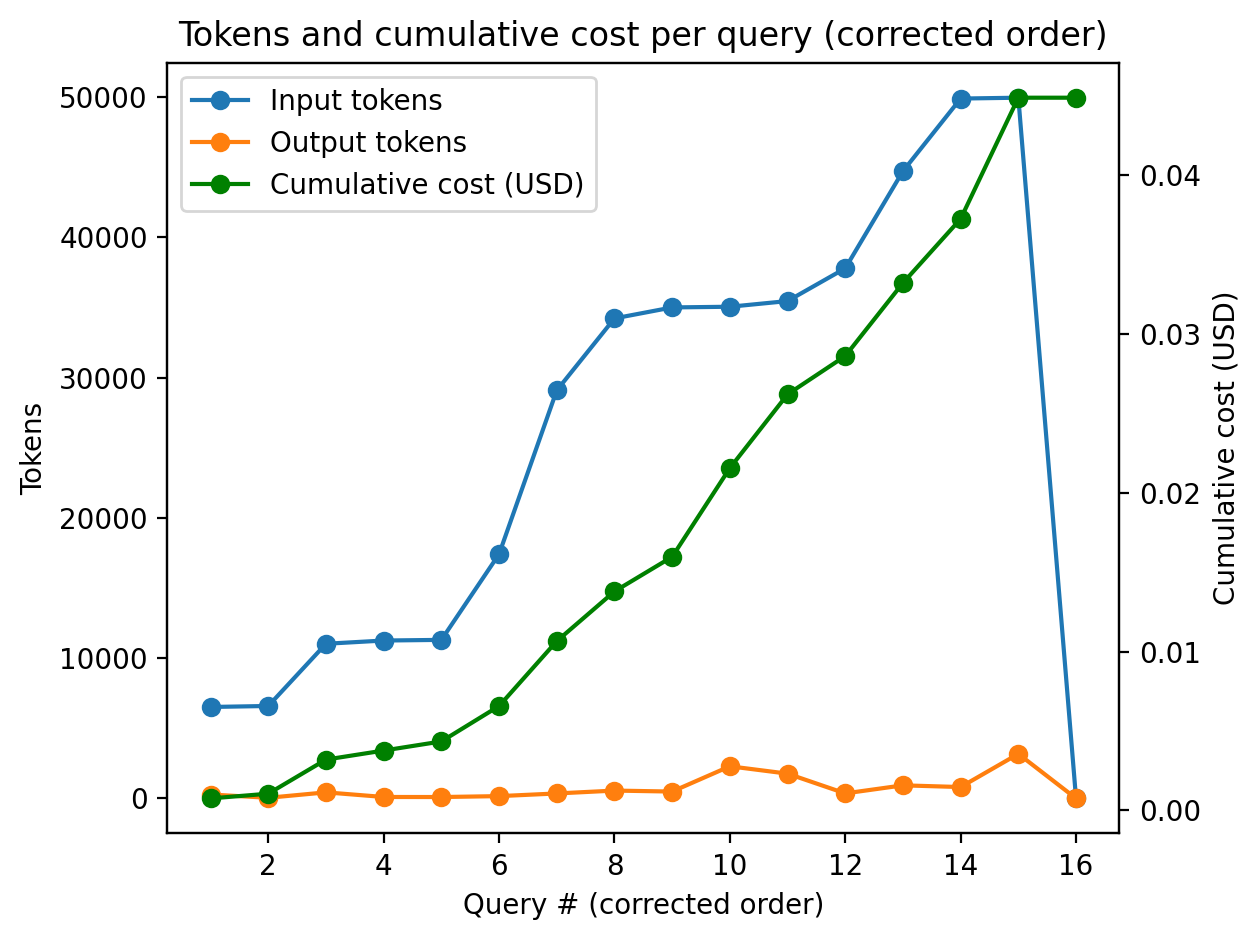
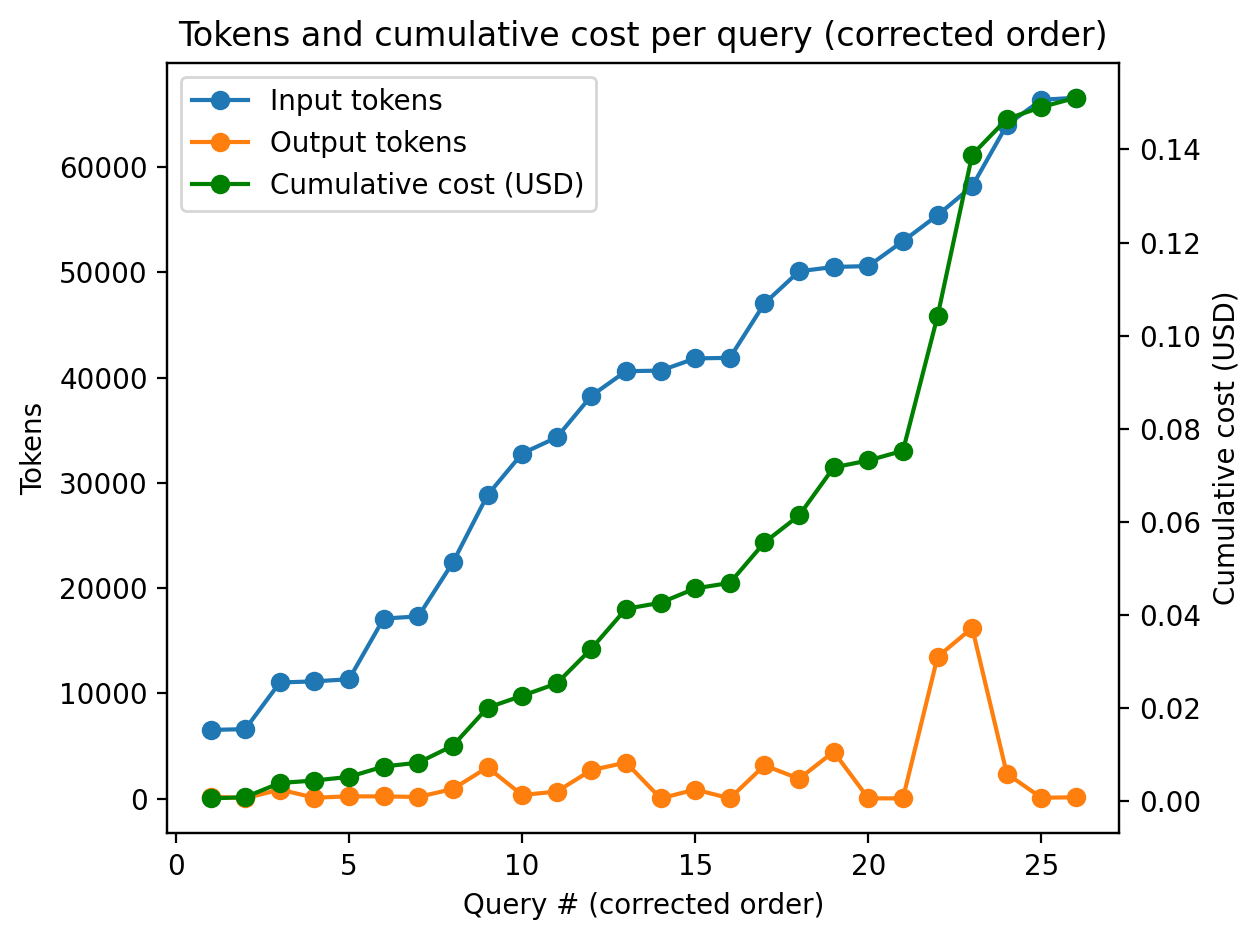
got the agent working to make a slice, but it needs more directions about what a slice looks like

diff --git a/gpuFLOPBench-agentic/unit-tests/test_backwards_slicing_agent.py b/gpuFLOPBench-agentic/unit-tests/test_backwards_slicing_agent.py
@@ -69,6 +69,9 @@ INITIAL_PROMPT = HumanMessage(
 
         Any tool calls that use file paths dir_path should use paths relative to `/`.
         You should definitely make a call to the function_definition_lister tool before performing any file reads, to get a list of functions and their locations.
+
+        You should always first call `ls` in the root directory `/` to see the available files and directories.
+
         There does NOT exist a tool called "task", we have "write_todos" instead; do NOT attempt to call a "task" tool.
         """
     )
@@ -197,8 +200,8 @@ def test_backwards_slicing_agent_can_run():
                 ),
             ],  # middleware will be extended inside the helper
             system_prompt=SYSTEM_PROMPT,
-            max_model_calls_limit=15,
-            max_tool_calls_limit=15
+            max_model_calls_limit=30,
+            max_tool_calls_limit=30
         )
 
         config = {"thread_id": "1"}
